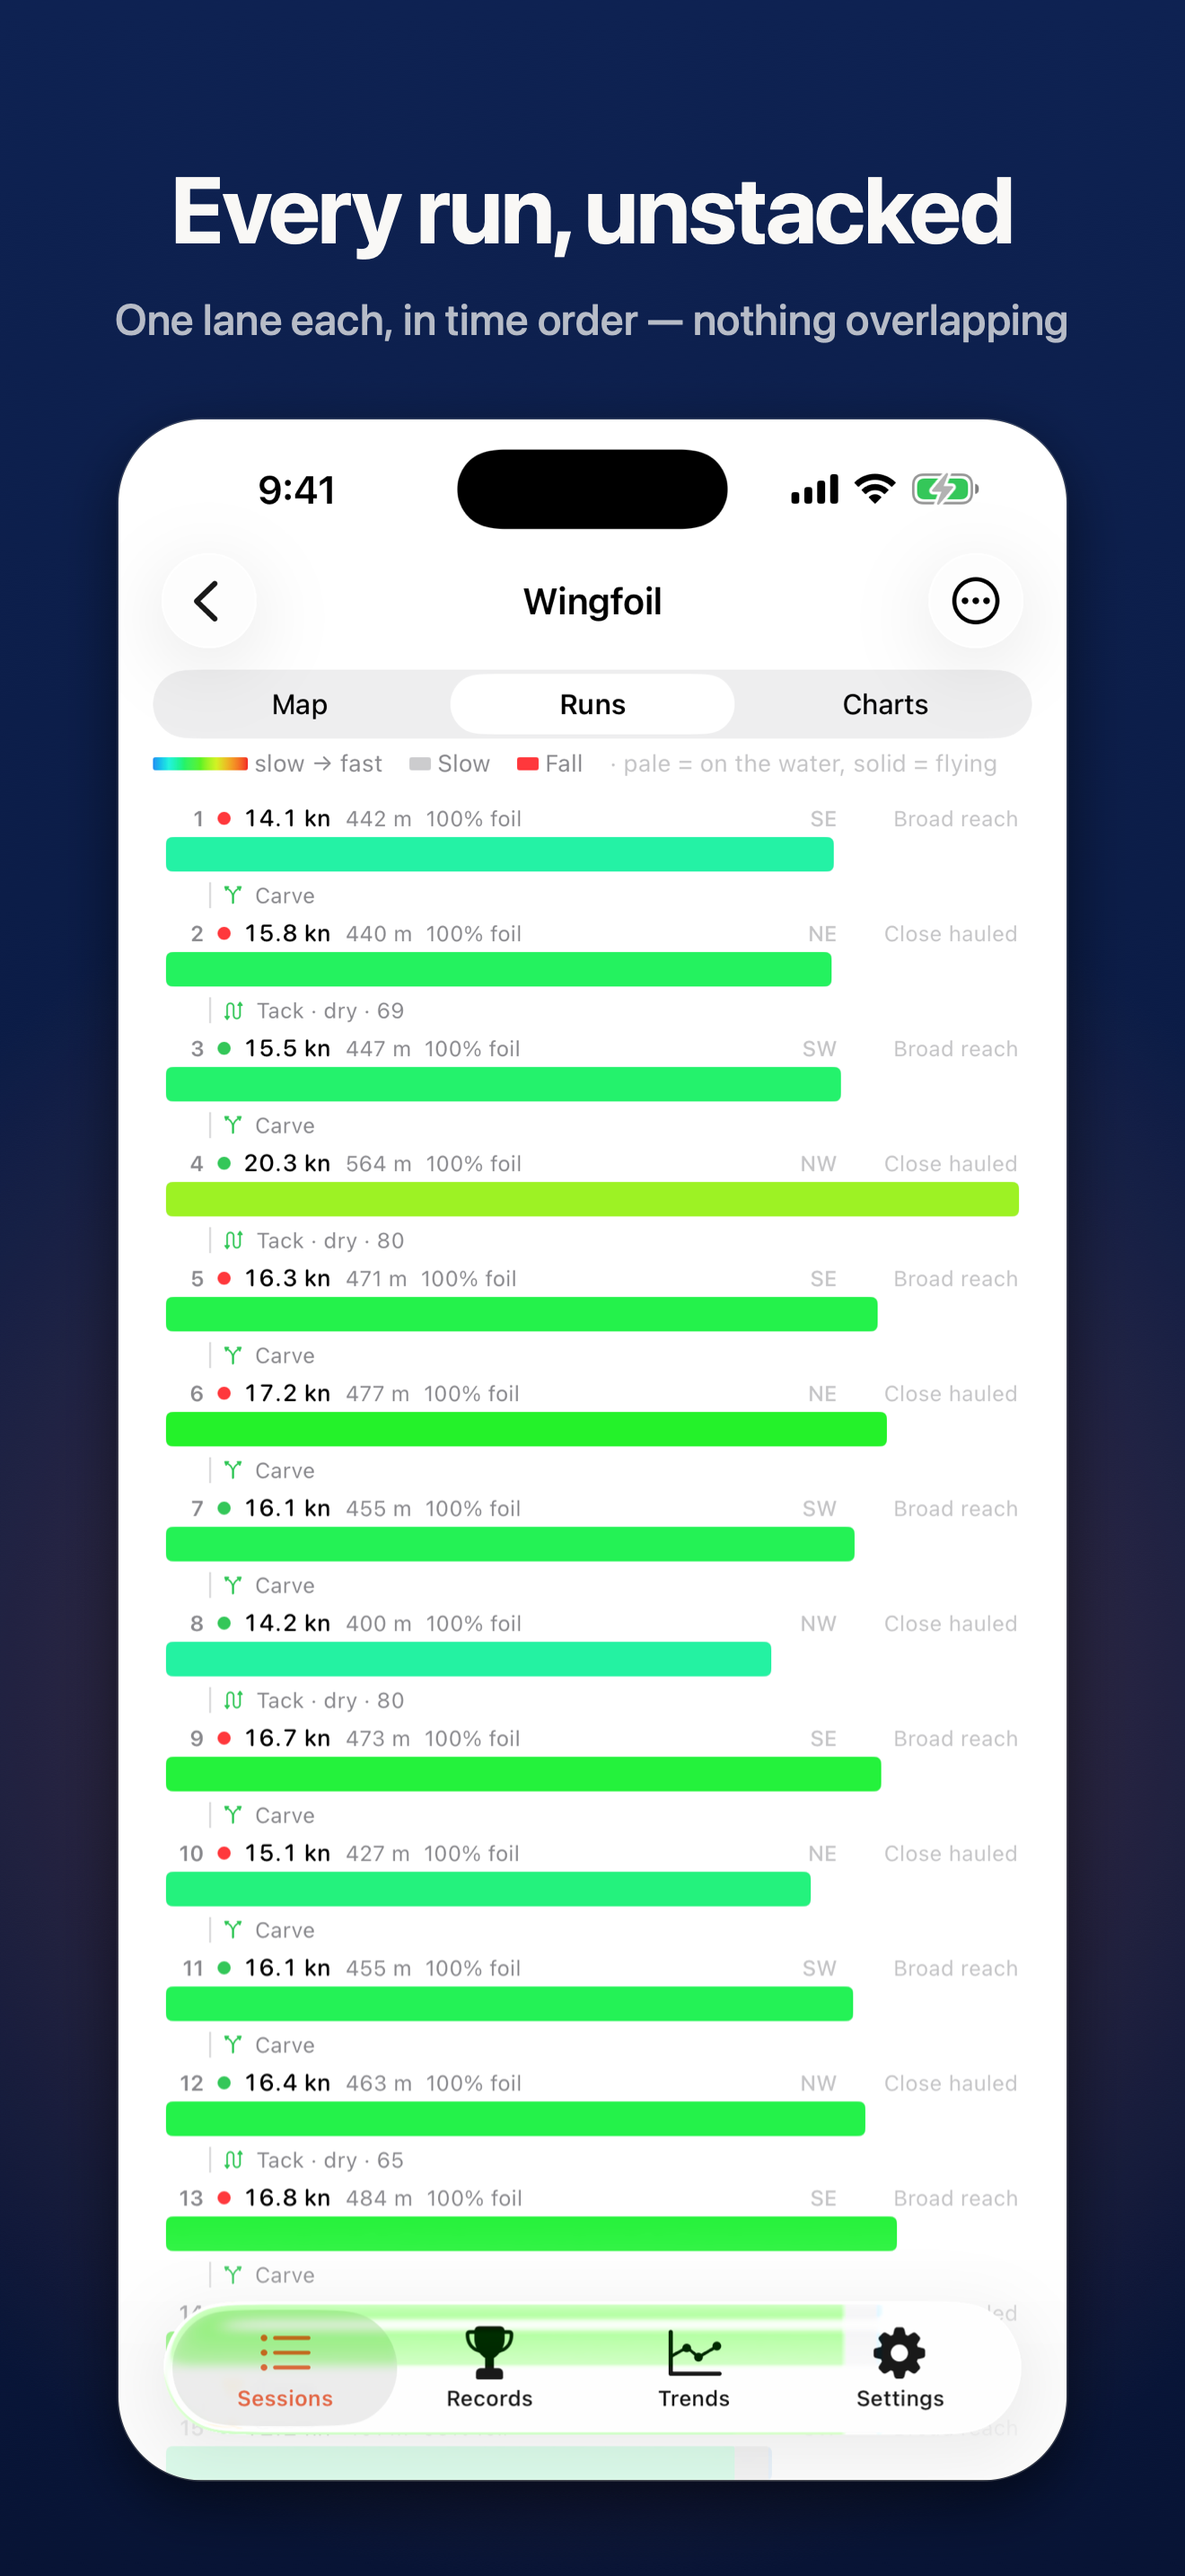
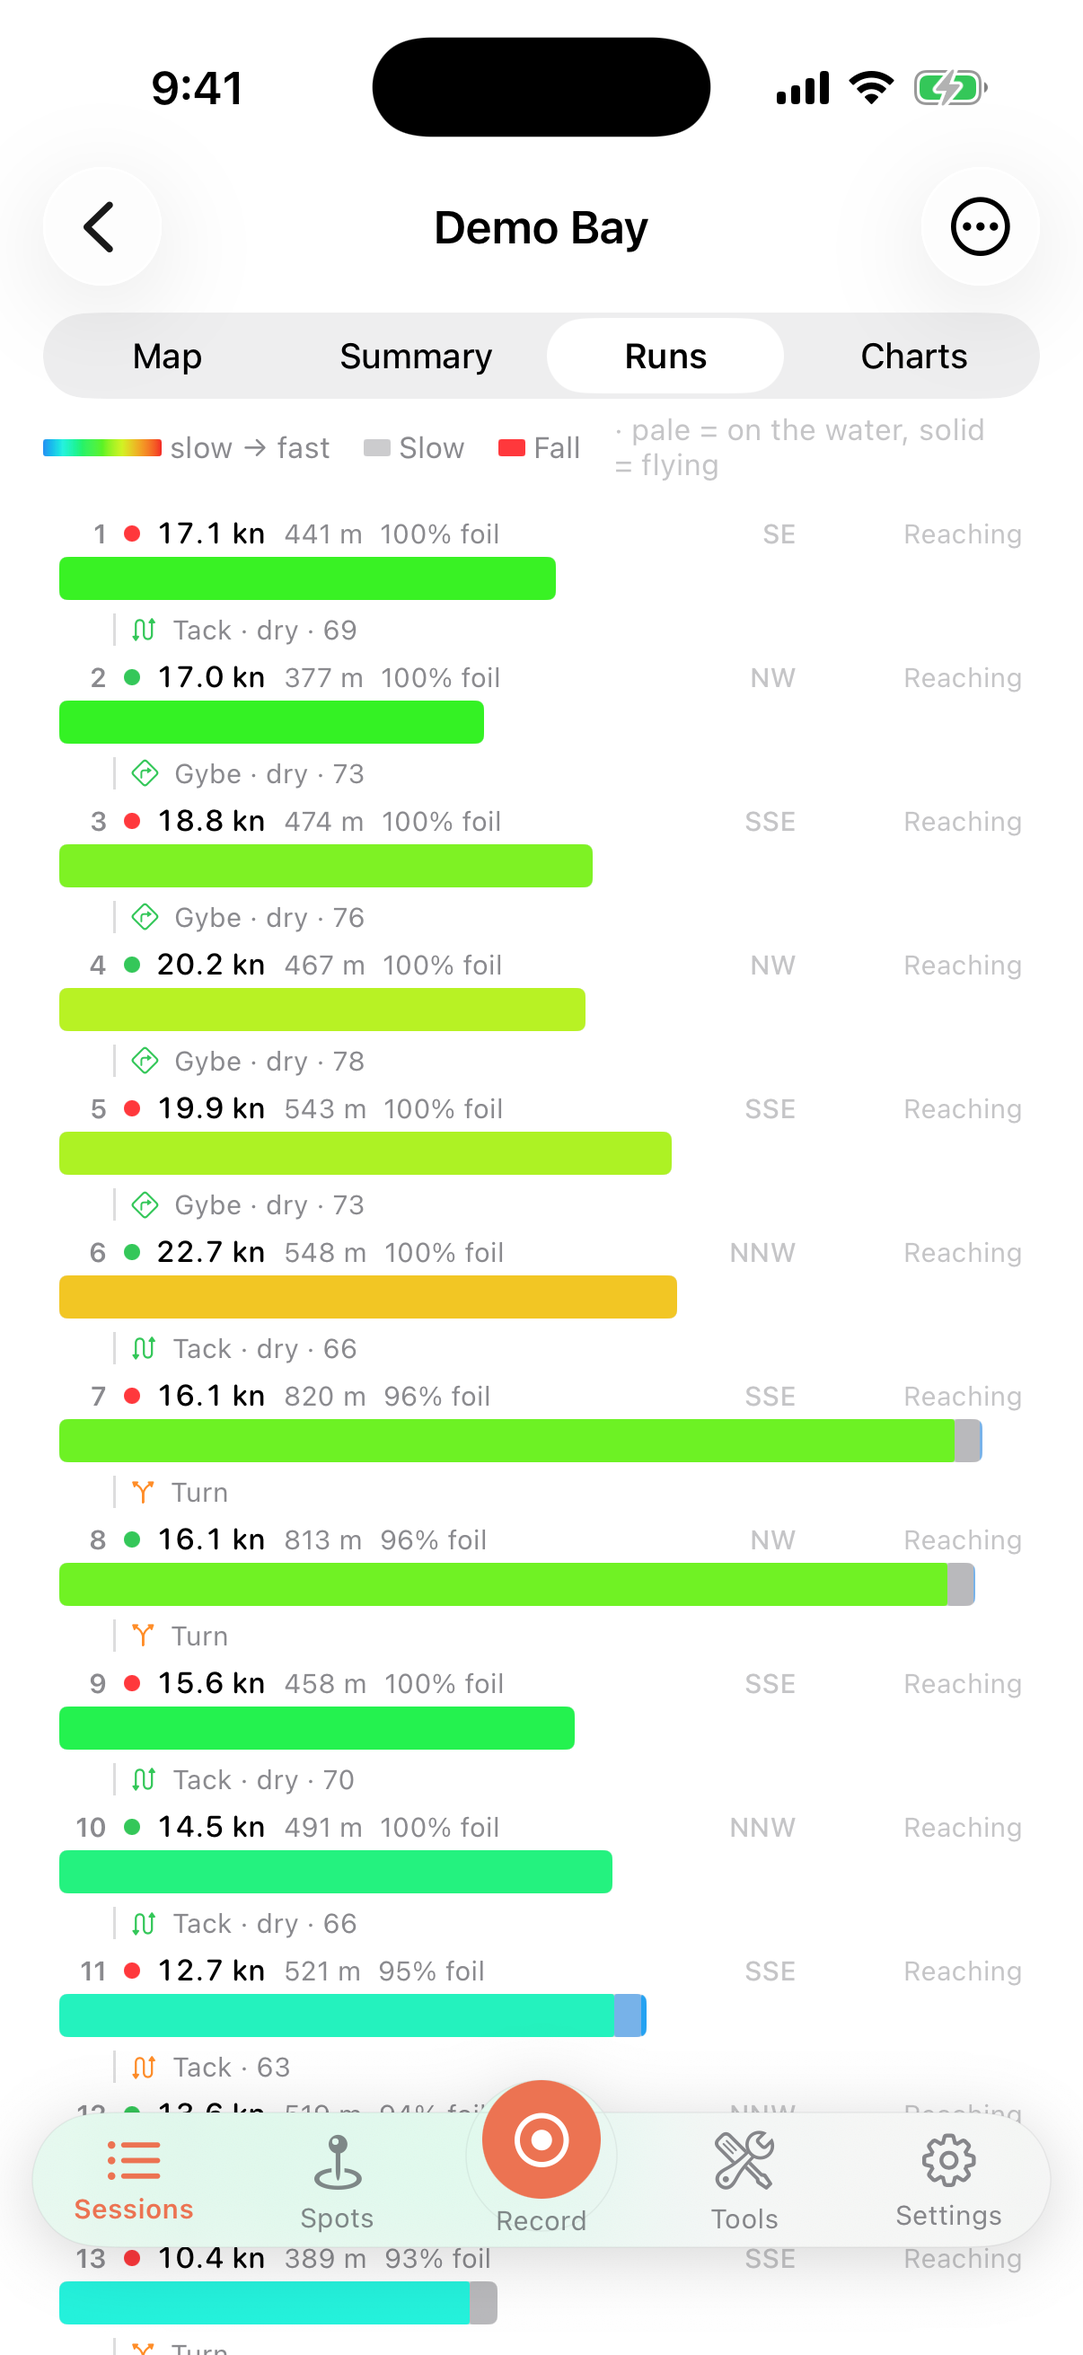
Ready the repository to be public
An audit of everything the repository would hand a stranger, and the
answers to what it found.

Secrets: the full history was swept across every branch and text file
type. Exactly one credential-shaped string has ever been committed — the
Firebase Web key — and it is already served to every browser that loads
openwaterapp.com. It is an identifier, not a secret: the security rules
are what protect the data, and they are now described in the README so a
reviewer can check that claim rather than take it. No signing key, token
or private key was ever tracked, and no personal data, session GPX or
local path is in the tree.

Licence: MIT, which is what the code was always meant to be. The README
said "not chosen yet", which quietly made a public repository
all-rights-reserved.

The team ID in scripts/testflight.sh is now OPENWATER_TEAM_ID with the
old value as the default, so a fork builds by setting an environment
variable instead of editing a tracked file.

Screenshots were a year of app behind: no Spots, no Tools, no editable
wind, and two shoot-list routes (records, trends) that no longer resolve
to a screen, so the capture silently produced whatever was on top. Routes
fixed, nine fresh 6.9" shots taken, six downscaled into docs/screenshots
for the README. The iPad set is deleted — the app is iPhone-only now, so
those 19 MB describe a product that does not exist.

diff --git a/openWater/Spots/SpotGuideStore.swift b/openWater/Spots/SpotGuideStore.swift
@@ -130,6 +130,11 @@ final class SpotGuideStore {
     private static let windTTL: TimeInterval = 10 * 60
 
     // The same public, rules-limited access the website's browser client has.
+    // A Firebase Web key is a project identifier, not a secret — it ships in
+    // every browser that loads openwaterapp.com, and what stops a stranger
+    // reading unpublished spots or editing a suggestion is the security rules,
+    // not the obscurity of this string. README → "Configuration and keys".
+    //
     // Internal, not private: the suggestion client writes through the same
     // door (create-only, bounded by the rules) and must not grow its own copy
     // of these to drift out of sync.

diff --git a/openWater/Data/ScreenshotRoute.swift b/openWater/Data/ScreenshotRoute.swift
@@ -17,8 +17,8 @@ enum ScreenshotRoute: String {
     case charts
     case playback
     case fullScreenMap
-    case records
-    case trends
+    case spots
+    case tools
     case record
 
     static let argumentPrefix = "-openWaterScreen"
@@ -34,8 +34,8 @@ enum ScreenshotRoute: String {
     /// Which tab this route lives on.
     var tab: Tab {
         switch self {
-        case .records: .records
-        case .trends: .trends
+        case .spots: .spots
+        case .tools: .tools
         case .record: .record
         default: .sessions
         }

diff --git a/README.md b/README.md
@@ -4,6 +4,30 @@ An open-source session tracker for wind-powered watersports — wingfoiling,
 parawinging, downwinding, windsurfing, kiting, SUP and sailing. iPhone and Apple
 Watch, no account, no subscription, every feature free.
 
+**[openwaterapp.com](https://openwaterapp.com)** · [Spot guide](https://openwaterapp.com/spots)
+
+| | | |
+|:--:|:--:|:--:|
+| ![Sessions](docs/screenshots/sessions.png) | ![Session map](docs/screenshots/map.png) | ![Charts](docs/screenshots/charts.png) |
+| **Sessions** — every session with its track, distance and best speeds | **Map** — speed-coloured track, editable wind, trim and replay | **Charts** — polar, wind angles, speed and VMG |
+| ![Spots](docs/screenshots/spots.png) | ![Tools](docs/screenshots/tools.png) | ![Record](docs/screenshots/record.png) |
+| **Spots** — 1000+ launches with live wind on the pins | **Tools** — share a pin, call out a session, plan a shuttle | **Record** — start knowing the wind at your launch |
+
+## What it does
+
+- **Speed categories** riders actually compare: 2 s, 10 s, 5×10 s, 100 m, 250 m,
+  500 m, 1 NM, 1 h, and Alpha 500/1000 to the community rule.
+- **Foiling analysis** — flights, time on foil, dry-gybe rate, touchdowns.
+- **Upwind and VMG** — per-tack angles, best beat, and every upwind leg drawn on
+  the map with the angle it was sailed at.
+- **Downwind** — glide detection, bump period, and a shuttle planner that says
+  how far off dead downwind today's wind puts your run.
+- **A spot guide** — the same published database the website serves, with live
+  model wind, cached for offline, and a camera-first way to fix a spot from the
+  beach.
+- **Your data stays yours** — no account, no server of ours, complete exports in
+  a documented format, and sharing only when you tap share.
+
 ```
 openWater/
 ├── OpenWaterCore/            Swift package: model, analysis, ingest, IO.
@@ -14,6 +38,7 @@ openWater/
 ├── openWaterTests/           iOS unit tests
 ├── openWaterUITests/         UI + screenshot tests
 ├── Marketing/                App Store screenshots and metadata
+├── docs/screenshots/         The shots used in this README
 ├── scripts/testflight.sh     Archive and upload to TestFlight
 └── docs/PLAN.md              Design notes
 ```
@@ -127,20 +152,22 @@ If any of these fail the script stops before spending an upload.
 | `Missing ASC_KEY_ID` | `~/.appstoreconnect/openwater.env` is absent or misspelled |
 | `No API key at ~/.appstoreconnect/private_keys/AuthKey_….p8` | Filename must match the Key ID exactly |
 | `403` / `not authorized` during upload | Key has the Developer role — regenerate as App Manager |
-| Signing or provisioning errors | The script passes `-allowProvisioningUpdates`; the Apple ID still has to be in the team (`34FWY7G2HB`) |
+| Signing or provisioning errors | The script passes `-allowProvisioningUpdates`; the Apple ID still has to be in the team. Forks: set `OPENWATER_TEAM_ID` to your own |
 
 ---
 
 ## Turning on WeatherKit
 
-Two things use it: the conditions strip on the Record tab, and **Use recorded
-conditions** on a session, which fills in the wind that was actually blowing
-from Apple's historical hourly data. That second one matters more than it
-sounds — without it a session's wind direction is guessed from the shape of the
-track, and every angle, VMG figure and polar in the app is measured from that
-guess.
+WeatherKit is **not currently used for the live wind** — the Record tab and the
+spot guide read Open-Meteo, which needs no entitlement and works today. What
+WeatherKit still offers is **Use recorded conditions** on a saved session: the
+wind that was actually blowing, from Apple's historical hourly data. That
+matters more than it sounds — otherwise a session's wind direction is guessed
+from the shape of the track (or set by hand on the dial), and every angle, VMG
+figure and polar is measured from that.
 
-The code side is done. The account side needs your Apple ID and has to be done
+The code side is done, and `Settings → Weather` runs a live check that prints
+the verbatim error if the service refuses. The account side needs your Apple ID and has to be done
 once:
 
 1. Go to [Certificates, Identifiers & Profiles →
@@ -227,8 +254,35 @@ the conditions. In order:
 5. If it still does not appear, check the watch's own App Store → Account →
    Installed Apps for a stalled entry and delete it before retrying.
 
+## Configuration and keys
+
+There is one credential-shaped string in this repository — the Firebase Web API
+key in `openWater/Spots/SpotGuideStore.swift` — and it is deliberately in the
+open. Firebase Web keys are project *identifiers*, not secrets: they cannot
+grant access on their own, they ship inside any client that talks to Firebase,
+and this one is already served to every browser that loads
+[openwaterapp.com](https://openwaterapp.com). Hiding it would break
+`git clone && build` and buy nothing.
+
+What actually protects the data is the rules, which are worth reading if you are
+reviewing this:
+
+- **Firestore** — spots are readable only when `status == "published"` and
+  `isTest == false`, so a query that does not filter on both is denied outright.
+  `spotSuggestions` is *create-only* with every field length-bounded; the app
+  cannot read, list, edit or delete a suggestion, including its own.
+- **Storage** — shares and suggestion photos are create-only and write-once, so
+  a link already in somebody's hands can never be swapped for different content.
+  Suggestion photos are not publicly readable at all; they are reviewed with
+  owner credentials before anything ships.
+
+The known gap, documented rather than hidden: nothing stops an unauthenticated
+client writing junk in a loop. There is no per-caller quota available in rules —
+App Check is the fix if it ever happens in practice.
+
+To build a fork against your own Apple team, set `OPENWATER_TEAM_ID` rather than
+editing `scripts/testflight.sh`.
+
 ## Licence
 
-Not chosen yet — there is no `LICENSE` file in the repository, which means the
-code is technically all-rights-reserved despite being public. Worth settling
-before anyone is invited to contribute.
+MIT — see [LICENSE](LICENSE). Use it, fork it, ship it; keep the notice.
